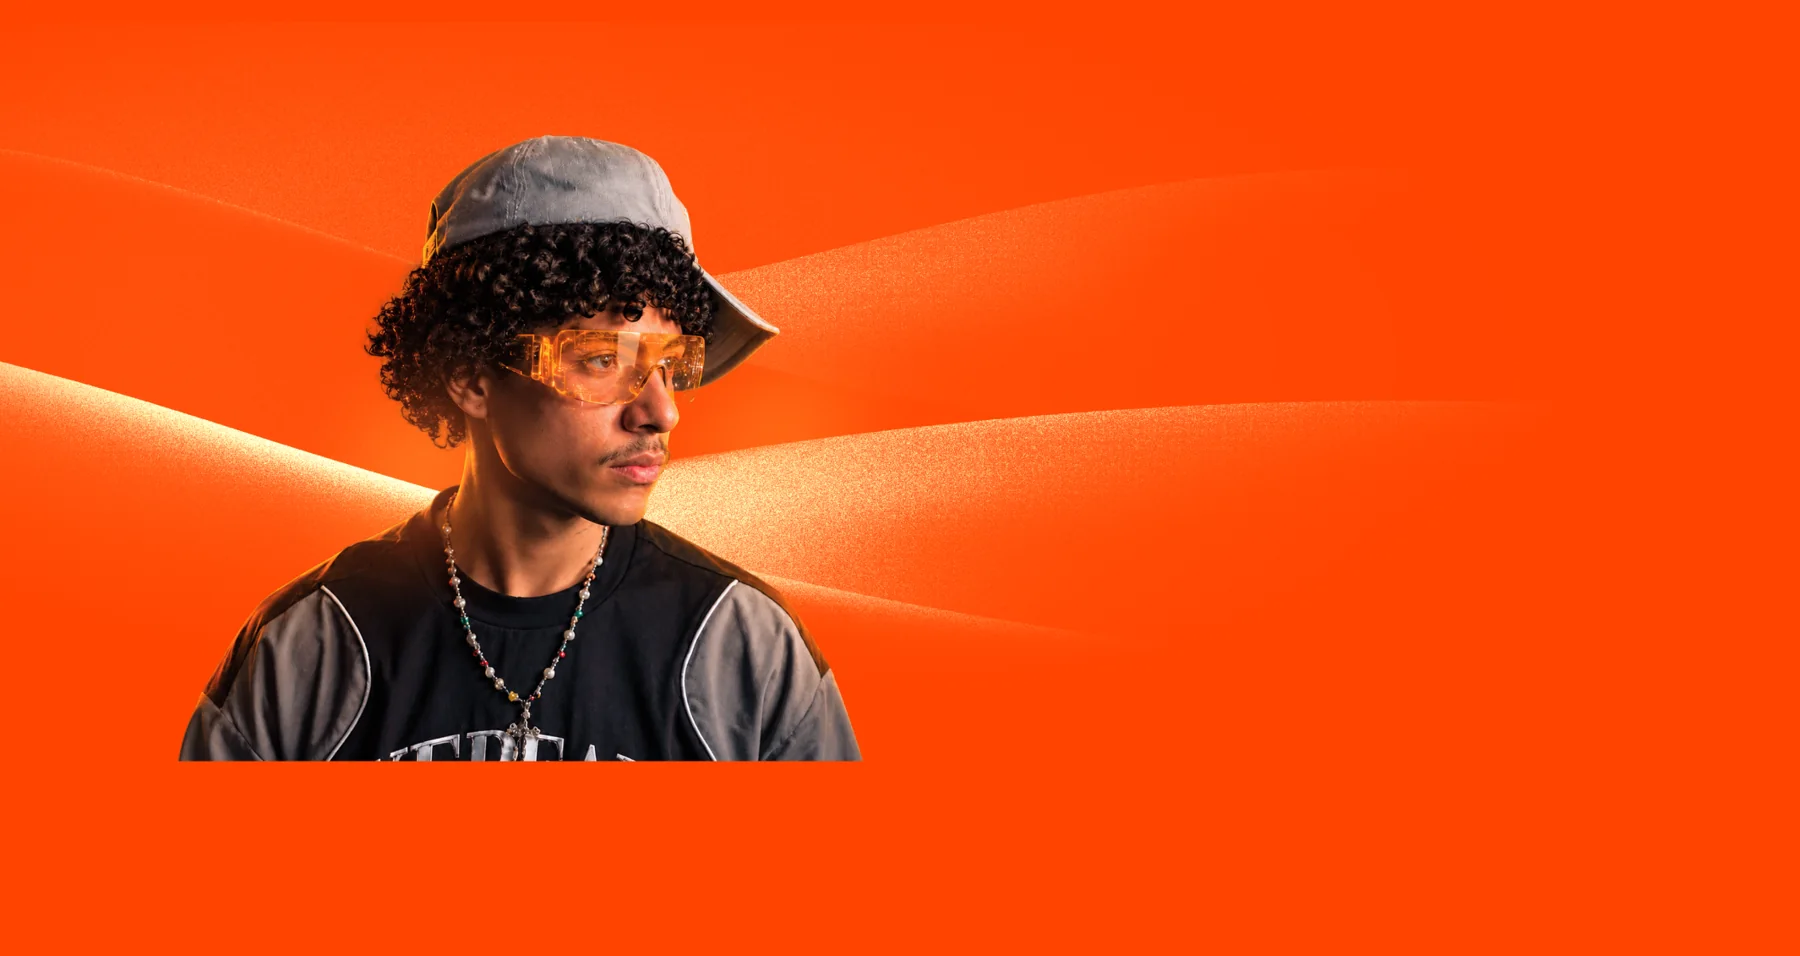
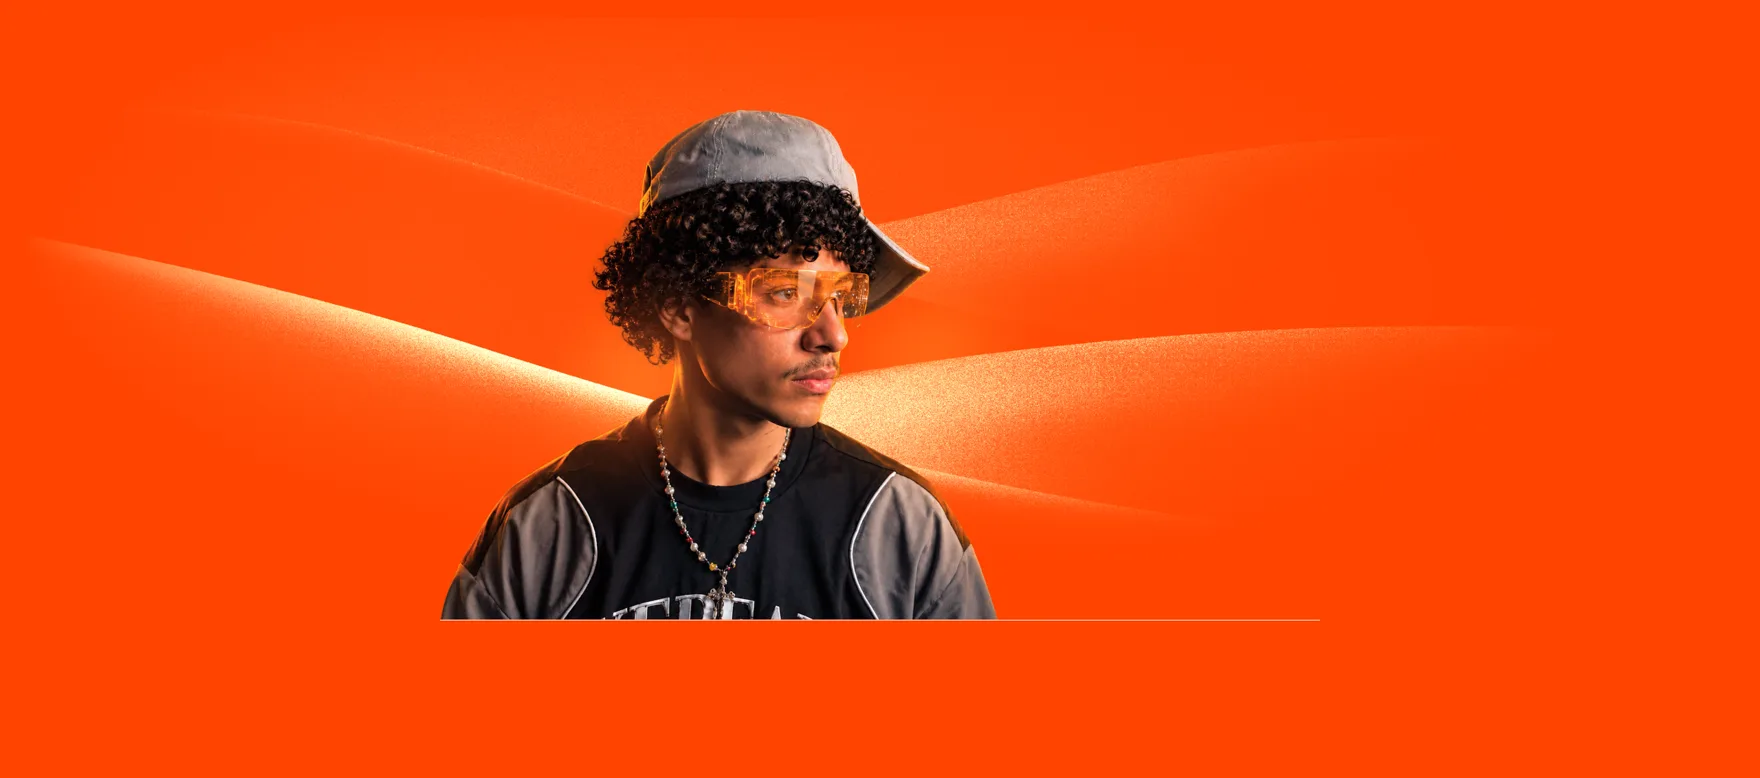
Seção 'Quem faz': novos assets desktop/mobile + centraliza texto do hero mobile
Quem faz (D8, laranja):
- quem-bg.webp trocado para DOBRA 7 AJUSTE DESKTOP.png (banner já composto,
  fundo laranja + streaks + pessoa, substitui o cutout antigo). Background-
  position ajustado pra 30% (o antigo "left" deixava o assunto quase saindo
  da área visível da máscara, ficando lavado/apagado -- a pessoa nesse novo
  asset não fica colada na borda esquerda do arquivo como no cutout velho).
- Asset mobile dedicado novo (quem-bg-mobile.webp, de DOBRA 7 CELULAR.png) --
  antes o mobile reusava o recorte desktop dentro de uma caixa baixa e larga,
  cortando o rosto. Máscara/altura da caixa recalibradas pra mostrar cabeça
  + óculos inteiros com fade suave só no rodapé.

Hero mobile:
- Bloco de texto (badge/título/descrição/prova social) centralizado -- pedido
  explícito do Seven após confirmar que a caixa da imagem já é full-bleed
  (0px de cada lado, verificado via clientWidth) e a assimetria percebida
  era o texto ficar alinhado à esquerda enquanto a foto ocupa a largura
  toda. Imagem/asset não foram tocados.

Changed region(s): [[0.0, 0.1234, 0.75, 0.8021], [0.0938, 0.1851, 0.125, 0.2159], [0.0312, 0.1542, 0.0625, 0.1851]]

diff --git a/saidas/sety-pagina-venda/css/styles.css b/saidas/sety-pagina-venda/css/styles.css
@@ -715,7 +715,8 @@ a.proj-card:focus-visible{outline:2px solid var(--orange);outline-offset:4px;bor
    ========================================================================= */
 .sec--quem{position:relative;background:var(--orange);color:#fff;overflow:hidden;
   padding-block:clamp(64px,7vw,120px);
-  min-height:clamp(560px,48vw,820px);display:flex;align-items:center}
+  min-height:clamp(560px,48vw,820px);display:flex;align-items:center;
+  --quem-img:url("../assets/quem-bg.webp?v=21")}
 /* transição limpa da seção escura -> seção laranja (véu escuro sutil no topo) */
 .sec--quem::before{content:"";position:absolute;top:0;left:0;right:0;height:clamp(90px,11vw,180px);
   z-index:0;pointer-events:none;background:linear-gradient(180deg,rgba(8,7,7,.5),transparent)}
@@ -724,7 +725,7 @@ a.proj-card:focus-visible{outline:2px solid var(--orange);outline-offset:4px;bor
    O recorte reto da foto some por baixo do statband via máscara. */
 .quem__bg{position:absolute;left:0;top:0;bottom:0;width:min(56%,880px);z-index:0;
   pointer-events:none;overflow:hidden;
-  background:url("../assets/quem-bg.webp?v=20") left bottom/cover no-repeat;
+  background:var(--quem-img) 30% bottom/cover no-repeat;
   -webkit-mask-image:linear-gradient(180deg,transparent 0,#000 12%,#000 80%,transparent 100%),linear-gradient(90deg,#000 58%,transparent 100%);
   -webkit-mask-composite:source-in;
   mask-image:linear-gradient(180deg,transparent 0,#000 12%,#000 80%,transparent 100%),linear-gradient(90deg,#000 58%,transparent 100%);
@@ -860,10 +861,13 @@ a.proj-card:focus-visible{outline:2px solid var(--orange);outline-offset:4px;bor
   .hero__scrim{background:linear-gradient(180deg,rgba(0,0,0,.55) 0%,rgba(0,0,0,0) 24%),
     linear-gradient(0deg,var(--bg-0) 0%,rgba(0,0,0,0) 30%)}
   .hero__media{background-position:center top}
-  .hero__title{font-size:clamp(2rem,8.4vw,2.9rem)}
-  .hero__sub{max-width:40ch}
-  .hero__actions{gap:12px}
+  .hero__inner{text-align:center;display:flex;flex-direction:column;align-items:center}
+  .hero__inner .pill{margin-inline:auto}
+  .hero__title{font-size:clamp(2rem,8.4vw,2.9rem);text-align:center}
+  .hero__sub{max-width:40ch;margin-inline:auto;text-align:center}
+  .hero__actions{gap:12px;justify-content:center;width:100%}
   .hero__actions .btn{width:100%;justify-content:space-between}
+  .proof{justify-content:center;width:100%}
   .statband{gap:16px}
   .statband__vr{display:none}
   .statband__cta{order:-1;width:100%}
@@ -872,9 +876,14 @@ a.proj-card:focus-visible{outline:2px solid var(--orange);outline-offset:4px;bor
   .statband__cta-group{order:-1;width:100%;flex-direction:column;align-items:stretch}
   .statband__cta-group .btn{width:100%;justify-content:space-between}
   .quem__body{margin-left:0}
-  .sec--quem{display:flex;flex-direction:column}
+  .sec--quem{display:flex;flex-direction:column;
+    --quem-img:url("../assets/quem-bg-mobile.webp?v=1")}
   .quem__bg{position:relative;order:-1;overflow:hidden;
-    width:100%;height:clamp(240px,66vw,360px);margin-bottom:20px}
+    width:100%;height:clamp(280px,78vw,420px);margin-bottom:20px;
+    background-position:center top;
+    -webkit-mask-image:linear-gradient(180deg,transparent 0,#000 10%,#000 94%,transparent 100%);
+    mask-image:linear-gradient(180deg,transparent 0,#000 10%,#000 94%,transparent 100%)}
+  .quem__bg::after{display:none}
   .quem__figure{position:relative;left:auto;bottom:auto;width:min(72%,300px);max-height:none;
     margin:0 auto 8px;display:block}
   .quem__light{display:none}

diff --git a/saidas/sety-pagina-venda/index.html b/saidas/sety-pagina-venda/index.html
@@ -35,7 +35,7 @@
 <link rel="preload" as="image" href="assets/hero-desktop.webp?v=1" media="(min-width:1650px)" fetchpriority="high" />
 <link rel="preload" as="image" href="assets/hero-mobile.webp?v=20" media="(max-width:820px)" fetchpriority="high" />
 <link href="https://fonts.googleapis.com/css2?family=Inter:wght@400;500;600;700&family=Montserrat:wght@600;700;800;900&display=swap" rel="stylesheet" />
-<link rel="stylesheet" href="css/styles.css?v=25" />
+<link rel="stylesheet" href="css/styles.css?v=27" />
 
 <!-- ================= TRACKING (carrega só se houver ID em js/config.js) ======
      Meta Pixel / GA4 / GTM são injetados por js/main.js a partir de TRACKING_CONFIG.
